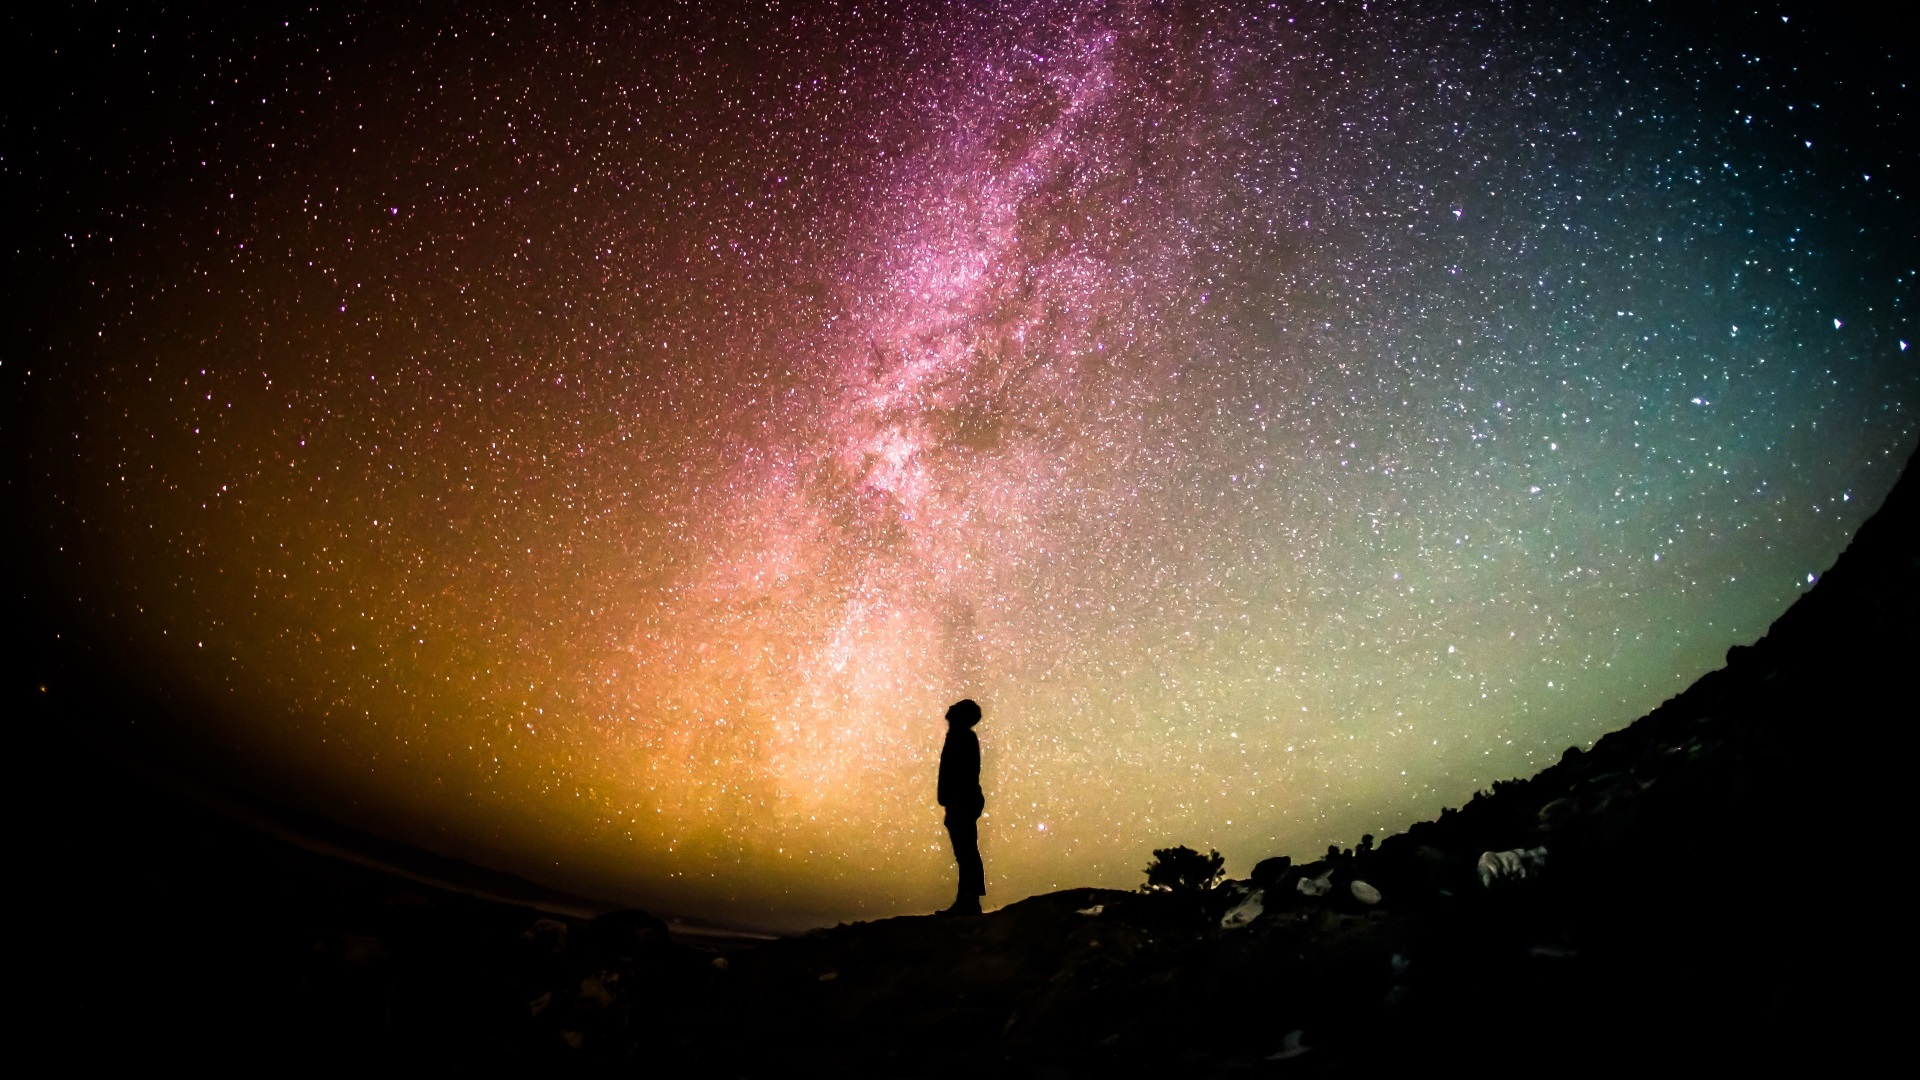
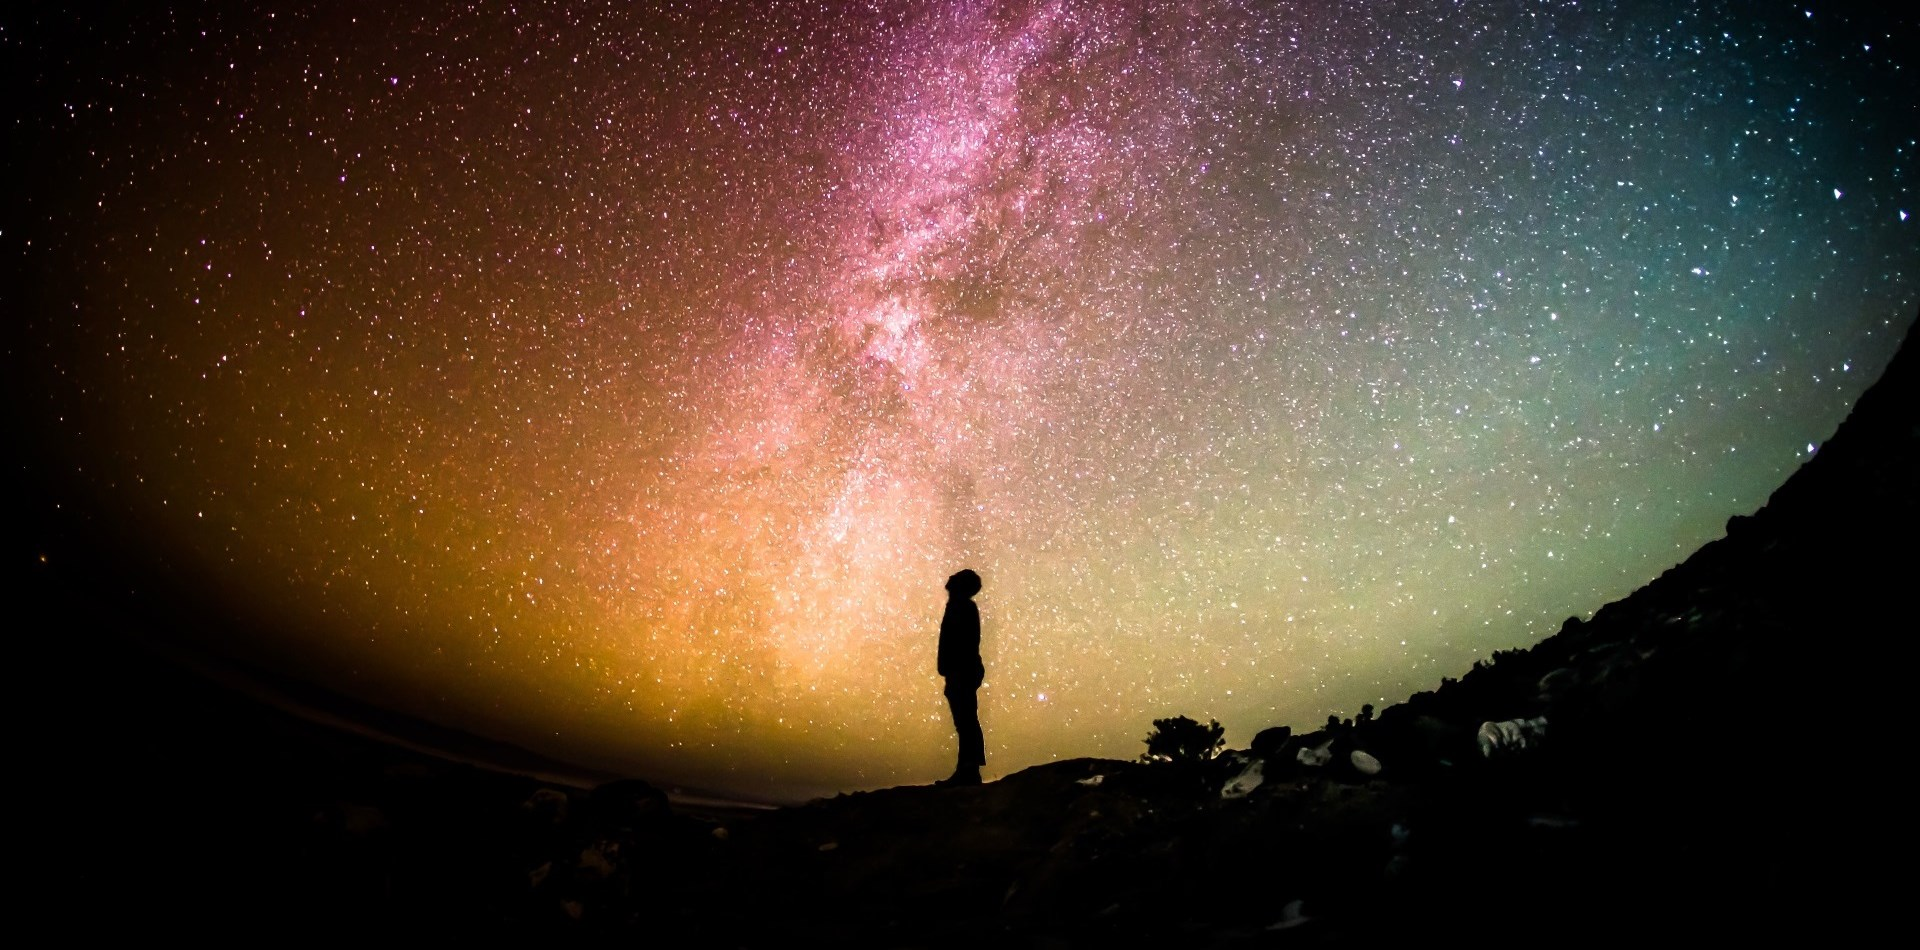
home page responsive

diff --git a/css/style.css b/css/style.css
@@ -3,21 +3,21 @@
 /*---------------------------------------------------------------------*/
 
 .page{
-    height: 101vh;
+    height: 960px;
     width: 100vw;
 }
 .page2{
     width: 100vw;
-    height: 90vh;
+    height: 860px;
 }
 
 #home-section{
-    background:url('../images/backgrounds/stars.png')#FFFFFF no-repeat bottom center fixed;
+    background:url('../images/backgrounds/stars.png')#FFFFFF no-repeat top center fixed;
     position: relative;
 }
 
 #app-section{
-    background:url('../images/backgrounds/galaxy3.jpg')#FFFFFF no-repeat bottom center fixed;
+    background:url('../images/backgrounds/galaxy3.jpg')#FFFFFF no-repeat top center fixed;
     position: relative;
 }
 
@@ -27,7 +27,7 @@
 }
 
 #contact-section{
-    background:url('../images/backgrounds/stars2.png') no-repeat bottom center;
+    background:url('../images/backgrounds/stars2.png') no-repeat bottom right;
     position: relative;
 }
 
@@ -199,4 +199,77 @@
 #map{
     width: 100%;
    height: 100%;
+}
+
+@media only screen and (max-width: 1600px){
+    #home-section .profession{
+        right:12%;
+    }
+    #home-section .me{
+        right:20%;
+    }
+}
+
+@media only screen and (max-width: 1200px){
+    .container{
+        width: 100vw;
+    }
+    #home-section .profession{
+        font-size: 25px;
+        bottom: 350px;
+    }
+    #home-section .me{
+        right:20%;
+        font-size: 45px;
+    }
+    #typed_intro{
+        font-size: 20px;
+        left:5%;
+        line-height: 35px;
+    }
+}
+
+@media only screen and (max-width: 1024px){
+    #home-section .profession{
+        font-size: 18px;
+    }
+    #home-section .me{
+        font-size: 35px;
+    }
+    #typed_intro{
+        font-size: 16px;
+        line-height: 30px;
+    }
+    #home-section{
+        background-attachment: scroll;
+        background-size:cover;
+    }
+
+    #app-section{
+        background-attachment: scroll;
+        background-size:cover;
+    }
+
+    #skill-section{
+        background-attachment: scroll;
+        background-size:cover;
+    }
+
+}
+
+@media only screen and (max-width: 726px){
+    #home-section .profession{
+        right: 3%;
+        bottom:380px;
+        font-size: 12px;
+    }
+    #home-section .me{
+        right:5%;
+        font-size: 30px;
+    }
+    #typed_intro{
+        left:1%;
+        font-size: 10px;
+        line-height: 24px;
+    }
 }

diff --git a/js/typed_intro.js b/js/typed_intro.js
@@ -1,12 +1,12 @@
 $(document).ready(setTimeout(function(){
         $(".line1").typed({
             strings: ["&lt;body&gt;<br>" +
-            "&nbsp; &nbsp; &nbsp; &nbsp; &nbsp; &nbsp;&lt;div id='Jason_Chen' class='Jedi_Knight' height='177cm " +
-            "'&gt; <br> &nbsp; &nbsp; &nbsp; &nbsp; &nbsp; &nbsp; &nbsp; &nbsp; &nbsp; &nbsp; &nbsp; &nbsp; " +
-            "Hi there! I'm a web developer who is based out of West Los Angeles Ca. <br> &nbsp; &nbsp; &nbsp; &nbsp; &nbsp;" +
-            " &nbsp; &nbsp; &nbsp; &nbsp; &nbsp; &nbsp; &nbsp; I enjoy sports, problem solving, coding and<br>" +
-            "&nbsp; &nbsp; &nbsp;&nbsp; &nbsp; &nbsp;&nbsp; &nbsp; &nbsp;&nbsp; &nbsp; &nbsp; &nbsp; day dreaming...<br>" +
-            "&nbsp; &nbsp; &nbsp; &nbsp; &nbsp; &nbsp;&lt;/div&gt;<br>&lt;/body&gt;"],
+            " &nbsp; &nbsp; &nbsp; &nbsp;&lt;div id='Jason_Chen' class='Jedi_Knight' height='177cm " +
+            "'&gt; <br>  &nbsp; &nbsp;&nbsp; &nbsp; &nbsp; &nbsp; &nbsp; &nbsp; " +
+            "Hi there! I'm a web developer who is based out of Los Angeles CA <br>  &nbsp; &nbsp; &nbsp;" +
+            " &nbsp; &nbsp; &nbsp; &nbsp; &nbsp; I enjoy sports, problem solving, coding and<br>" +
+            "&nbsp;&nbsp; &nbsp; &nbsp;&nbsp; &nbsp; &nbsp;&nbsp; &nbsp; day dreaming...<br>" +
+            "&nbsp; &nbsp; &nbsp; &nbsp;&lt;/div&gt;<br>&lt;/body&gt;"],
             typeSpeed:-20
         });
     },500));

diff --git a/mail_handler.php b/mail_handler.php
@@ -24,7 +24,7 @@ $mail->addAddress('xuesongc@gmail.com');     // Add a recipient
 //$mail->addAddress('ellen@example.com');               // Name is optional
 $mail->addReplyTo($_POST['email']);
 $mail->isHTML(true);                                  // Set email format to HTML
-$mail->Subject = "Message from localhost";
+$mail->Subject = "Message from jchen4.com";
 $mail->Body    = $_POST['body'];
 //$mail->AltBody = $_POST[''];
 if(!$mail->send()) {
